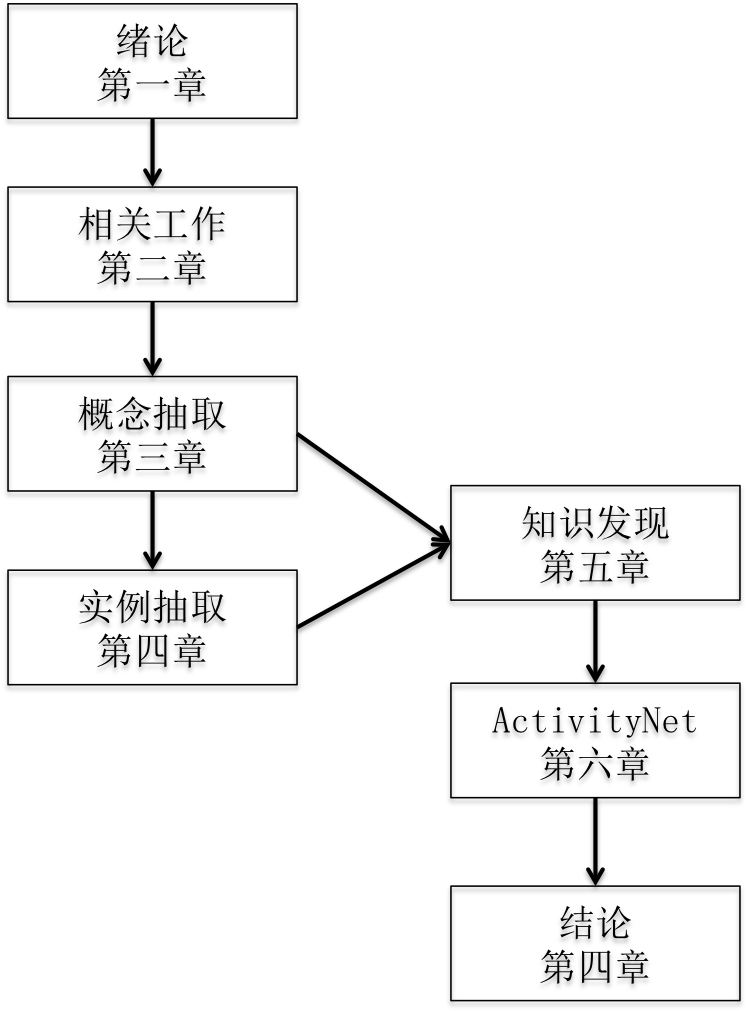
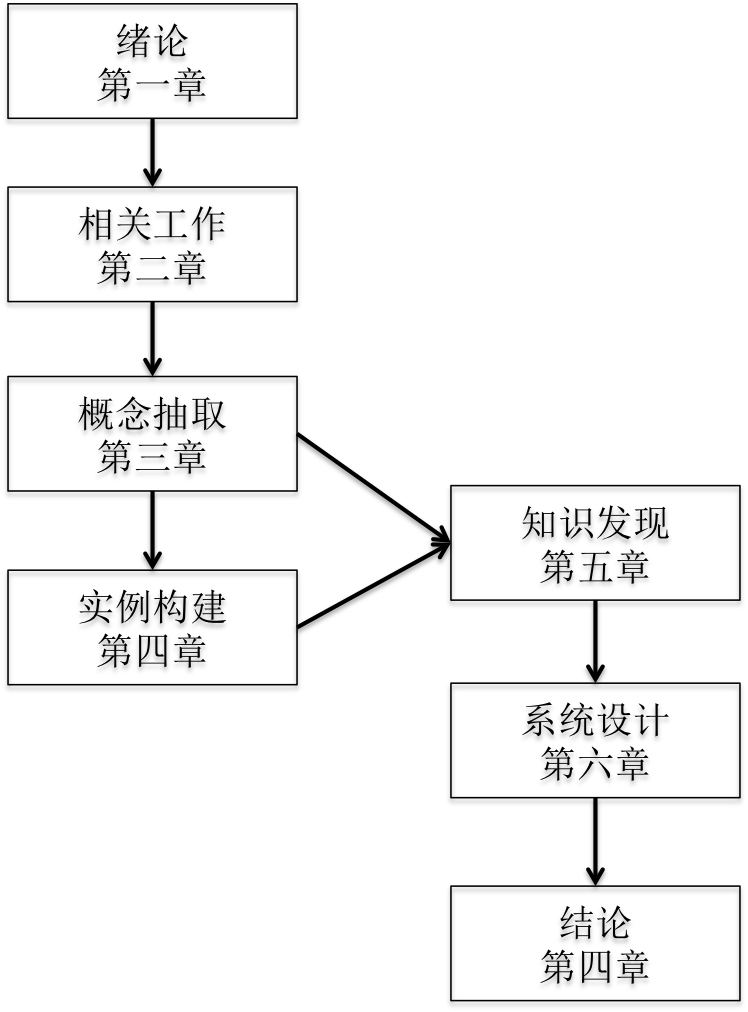
nearly complete intro

Changed region(s): [[0.6457, 0.6739, 0.9225, 0.7352], [0.2152, 0.582, 0.3075, 0.6433]]

diff --git a/latex/data/intro.tex b/latex/data/intro.tex
@@ -1,38 +1,61 @@
 \chapter{绪论}
 \section{研究背景和意义}
-以Facebook，Twitter，以及国内新浪微博、人人网为代表的社交网络，在过去几年中取得了巨大的成功。Facebook全球已经有超过10亿用户，新浪微博也有超过6000万用户，据报道，在美国，人们16\%的上网时间停留在Facebook上，超过了传统搜索引擎Google(10\%)。
+在过去几年中，世界见证了以Facebook，Twitter，以及国内新浪微博、人人网为代表的社交网络的崛起。Facebook全球已经有超过10亿用户，新浪微博全球注册用户已经达到6亿。据报道，在美国，人们16\%的上网时间停留在Facebook上，超过了传统搜索引擎Google的10\%。社交媒体中保存了大量的用户资料，用户间的社交关系以及海量文本信息，对大数据时代的到来有着不可磨灭的贡献，有着巨大的研究价值，在广告和推荐系统方面，也有着广阔的商业应用前景。
 
-而对用户线下行为的建模，也是我们十分关注的话题，活动(Activity)信息的挖掘，是比较新，但十分令人激动的领域。现有的系统，如大众点评，Yelp等，通过搜集用户对商家的点评和反馈，可以根据用户所在地区和时间在饮食、旅游、休闲娱乐等方面对用户提供商家的推荐。然而这些系统依赖于用户自发的点评行为，局限在对商家的评价，没有对活动之间的关系进行建模。
+\begin{figure}[!h]
+\centering
+\includegraphics[width=0.8\textwidth]{social_pros.png}
+\caption{社交网络的崛起}
+\end{figure}
 
-而社交媒体，则是用户生活自然的反应。我们希望利用用户在社交网络上的发布的信息，包括文本、签到等，帮助我们对用户的线下行为模式和喜好建模。
+社交网络最初为用户提供了一个信息传播，结识好友的社交平台，用户发布的信息也通常是交流、沟通以及对社会事件的看法。现有的社交网络研究，如网络结构和演化分析\cite{leskovec2008microscopic}, 链接预测\cite{liben2007link}, 影响力分析\cite{tang2009social}, 社会纽带关系推断\cite{tang2011learning}等，更多地考虑社交网络本身的特性和用户的线上行为。而随着移动的互联网的迅猛发展和智能移动通信工具的普及，用户访问社交网络不再局限于传统的个人计算机。朋友聚会，家庭出游等活动中，经常许多人到达目的地的第一件事是拿出手机，在微博或Foursquare等社交网络上签到，告诉朋友们自己现在在做什么，心情如何，社交网络和线下的日常生活以前所未有的方式深入地结合在一起。这也促使我们关注这样一个问题，是否可以从社交媒体的海量数据中挖掘出人们日常活动中的一些知识，比如一项活动通常在什么时间、什么地点发生，两个活动是否存在联系，用户在进行A活动后，最可能去做的下一件事是什么。最终将我们得到的数据进行整理、分析，并实现一个可视化的系统，方便进一步的分析和应用。
 
-在社交网络中
-构建知识库，推断活动的关系，以及活动的自身属性。这一点是现有知识库缺少的。
-了解用户行为习惯，对行为进行建模。
-个性化的活动推荐。比如，用户进入一个兴趣点(POI, point of interest)，我们可以根据时间、用户之间在社交网络中发布的消息，预测用户可能感兴趣的活动。
+相比于其他的Web数据，如点评、论坛、百科、问答平台，社交媒体有不可替代的优势。大众点评、Yelp等点评类网站，同样可以挖掘用户的活动信息，但它以商家为中心，局限于用户消费行为，如就餐、住宿、电影，收集的只是用户对于商家的点评信息。而用户的日常活动，如散步、睡觉等等，用户是不会发布在这些平台上的。用户在类似微博、人人网的社交媒体上，更愿意发布私人化、生活化的内容；同时，得益于移动互联网，用户通过随时随地方便地访问社交平台，获取信息的实时性更好，也更容易获取用户精确的地理信息。同时，社交网络的好友机制，可以帮助我们推断用户在活动中的互动。例如，用户A在时刻$t$发布了一条活动信息的微博并提到了用户B，或者B在相近的地点进行了签到，我们可以推测，B参加了A提到的那一项活动，即使B并没有特意发微博表明这一事实。
 
-\section{问题和挑战}
-从freestyle的文本中抽取活动概念和实例
-利用有限的文本信息，对活动的关系进行推断
-借助社交网络的关系结构，
+对社交网络中活动信息的挖掘，可以预想，有许多潜在的应用，尤其是在推荐系统的应用。
+\begin{enumerate}
+\item{\heiti 用户行为模式建模} 给定用户$t_0$时刻前的活动历史$history = \{a_t|t<t_0\}$，预测用户在下一时刻$t_0+1$在地点$p$进行活动$a$的概率，即预测$P(p_i, a_j|t+1,history)$。
+\item{\heiti 基于兴趣的好友推荐} 现有的社交平台，如Facebook, 人人网等的好友推荐，主要对用户是否认识进行链接预测；而微博的推荐关注，则考虑到被推荐用户的影响力，以及和用户选定兴趣标签的匹配程度。如果我们能对用户参加活动的类别和地点有足够多的了解，就能更精确地向用户推荐兴趣相投的朋友，并且更容易转化为线下的好友关系。
+\item{\heiti 个性化的活动推荐} 当用户来到一个陌生的城市，或是有闲暇的时间而不知道如何休闲娱乐，我们可以基于活动的知识，向其推荐活动。比如，一个用户经常在微博中发布吃火锅类似的信息，那么，如果用户来北京旅游，就可以向其推荐东来顺等有特色的涮肉火锅，这也会产生潜在的商业价值。
+\end{enumerate}
 
-\section{本文主要工作}
-本文目标在于建立一个关于人类活动的知识库系统ActivityNet。
+\section{研究问题与挑战}
 
-\subsection{概念语义建模和分类}
-为了从微博文本中抽取活动概念，本文利用自然语言处理的神经网络语言模型训练得到短语的向量表示，同时提出最优化标注集合的算法，使得在训练数据有限的条件下优化分类器的性能。同时建立用户反馈机制，纠正分类错误的样本，实现在线学习，以提高模型精度。
-\subsection{活动实例抽取}
+本文目标在于建立一个关于社交媒体中活动的系统ActivityNet，并实现以下功能
 
-\subsection{概念关系建模}
+\begin{enumerate}
+\item 对于用户的查询，呈现该活动的相关知识，如活动的类别，地域、时间分布，类似活动等等。
+\item 对于特定的社交网络用户（本文工作主要基于新浪微博），分析其活动偏好。
+\item 对于给定的地点，推荐当地最热门的活动。
+\end{enumerate}
+
+在系统构建过程中，我们需要解决以下问题：
+
+\begin{enumerate}
+\item 如何从社交媒体中抽取活动的抽象概念表示。
+\item 如何对一条用户发布的信息，构建活动的实例。包括活动概念，情感、地点、时间等相关属性。
+\item 如何建模活动之间的关系。我们希望构建一个层次结构，活动之间的关系有不同的类型，例如``A is-a B''，表示B是A概念的外延（如``吃早饭''和``吃饭''）；``A follows B''表示A常在B之后依次进行。
+\item 如何对得到的知识进行高效地存贮、检索和可视化。
+\end{enumerate}
+
+虽然社交媒体相比其他Web数据有诸多优势，其本身的特点也给我们的工作提出了许多挑战：
+
+\begin{enumerate}
+\item 问答、论坛等Web平台，其自身的分类系统限定了话题，人们谈论的内容比较单一。而社交媒体中，人们谈论的话题不收限制，可以对自己感兴趣的任何问题发表观点，不仅仅局限在日常活动，不可避免了噪声和稀疏性问题。同时，人们在社交媒体上发布的消息格式高度自由，长度很短，同时常带有俚语和语法、词法的错误。这对信息的精确抽取带来挑战。
+\item 社交媒体中对消息长度有严格限制，传统的基于统计的方法不易应用于挖掘活动之间的概念联系。
+\item 利用社交网络的结构信息，如好友关系，对未明确表达的参与关系进行推断。
+\end{enumerate}
+
+在本文中，主要解决前两个挑战。对隐式的活动参与进行推断有比较大的难度，同时也不十分迫切，在将来的工作中会进一步研究。
 
 \section{论文组织}
 本文的章节安排如图\ref{fig:organ}所示。
 
-{\heiti 第二章} 介绍了活动挖掘的相关研究，包括信息抽取，本体学习，知识库等。
+{\heiti 第二章} 介绍了活动挖掘的相关研究领域，如信息抽取，本体学习，知识库等。
 
 {\heiti 第三章} 介绍了基于基于神经网络语言模型和分类算法的概念抽取模型，并对结果进行了分析。
 
-{\heiti 第四章} 介绍了基于规则和语法解析工具对活动实例的抽取方法。
+{\heiti 第四章} 介绍了活动实例的构建方法。
 
 {\heiti 第六章} 介绍了根据对活动概念、实例的抽取结果，进行知识发现，构建层次概念模型等方法。
 
@@ -44,36 +67,7 @@
 \caption{论文组织}
 \label{fig:organ}
 \begin{center}
-\includegraphics[width=0.5\textwidth]{organ.png}
+\includegraphics[width=0.7\textwidth]{organ.png}
 \end{center}
 \end{figure}
 
-\chapter{相关工作}
-本文实验的系统，与信息抽取、本体学习等领域有较强的相关性，同时用到了自然语言处理、机器学习的一些模型和方法。下面对本文主要的相关工作作简单的介绍。
-\section{信息抽取}
-信息抽取(Information Extraction)
-\section{本体学习}
-本体学习(Ontology Learning)
-
-\section{知识库}
-知识库是对人类知识的结构化表示，它在搜索、智能系统中有着日益重要的应用，Google，Microsoft以及国内百度、搜狗等互联网企业均有自己的知识图谱计划。下面是常见知识库概况的一个总结。
-
-\begin{table}[!h]
-\begin{tabular}[0.7\textwidth]{|l|p{2cm}|l|p{4cm}|}
-\hline
-名称 & 开发者 & 概念数量  & 概述 \\
-\hline
-SenticNet & 南洋理工大学、新加坡国立大学 & 14,244	& 情感词汇  \\
-\hline
-Freebase & 社区	& 1450	& 对不同领域的知名人物、地点、事物 \\
-\hline
-WordNet\cite{miller1995wordnet} & 普林斯顿大学 & 25,229 & 英语词汇的知识库，根据同义语将英语词汇进行组织，并且提供词汇之间的多种语义关系。 \\
-\hline
-WikiTaxonomy\cite{ponzetto2007deriving}	& HITS & 127,325 & 基于维基百科(Wikipedia)的语料, 将类别按照is-a关系构建为一个大规模分类系统 \\
-\hline
-\end{tabular}
-\caption{现有知识库概况}
-\label{table:knowledge_base}
-\end{table}
-
-从表\ref{table:knowledge_base}中可以看到，现有的知识库种类繁多，但主要关注词汇，客观实体如人物、地点、物体的关系建模，没有对人类日常活动给予足够的关注。希望我的工作能在这方面对现有的知识库的一个补充。

diff --git a/latex/data/related.tex b/latex/data/related.tex
@@ -1,0 +1,29 @@
+\chapter{相关工作}
+本文实验的系统，与信息抽取、本体学习等领域有较强的相关性，同时用到了自然语言处理、机器学习的一些模型和方法。下面对本文主要的相关工作作简单的介绍。
+\section{信息抽取}
+信息抽取(Information Extraction)
+\section{本体学习}
+本体学习(Ontology Learning)
+
+\section{知识库}
+知识库是对人类知识的结构化表示，它在搜索、智能系统中有着日益重要的应用，Google，Microsoft以及国内百度、搜狗等互联网企业均有自己的知识图谱计划。下面是常见知识库概况的一个总结。
+
+\begin{table}[!h]
+\begin{tabular}[0.7\textwidth]{|l|p{2cm}|l|p{4cm}|}
+\hline
+名称 & 开发者 & 概念数量  & 概述 \\
+\hline
+SenticNet & 南洋理工大学、新加坡国立大学 & 14,244	& 情感词汇  \\
+\hline
+Freebase & 社区	& 1450	& 对不同领域的知名人物、地点、事物 \\
+\hline
+WordNet\cite{miller1995wordnet} & 普林斯顿大学 & 25,229 & 英语词汇的知识库，根据同义语将英语词汇进行组织，并且提供词汇之间的多种语义关系。 \\
+\hline
+WikiTaxonomy\cite{ponzetto2007deriving}	& HITS & 127,325 & 基于维基百科(Wikipedia)的语料, 将类别按照is-a关系构建为一个大规模分类系统 \\
+\hline
+\end{tabular}
+\caption{现有知识库概况}
+\label{table:knowledge_base}
+\end{table}
+
+从表\ref{table:knowledge_base}中可以看到，现有的知识库种类繁多，但主要关注词汇，客观实体如人物、地点、物体的关系建模，没有对人类日常活动给予足够的关注。希望我的工作能在这方面对现有的知识库的一个补充。

diff --git a/latex/main.tex b/latex/main.tex
@@ -53,6 +53,7 @@
 \mainmatter
 \include{data/intro}
 
+\include{data/related}
 \include{data/concept}
 
 \include{data/instance}
